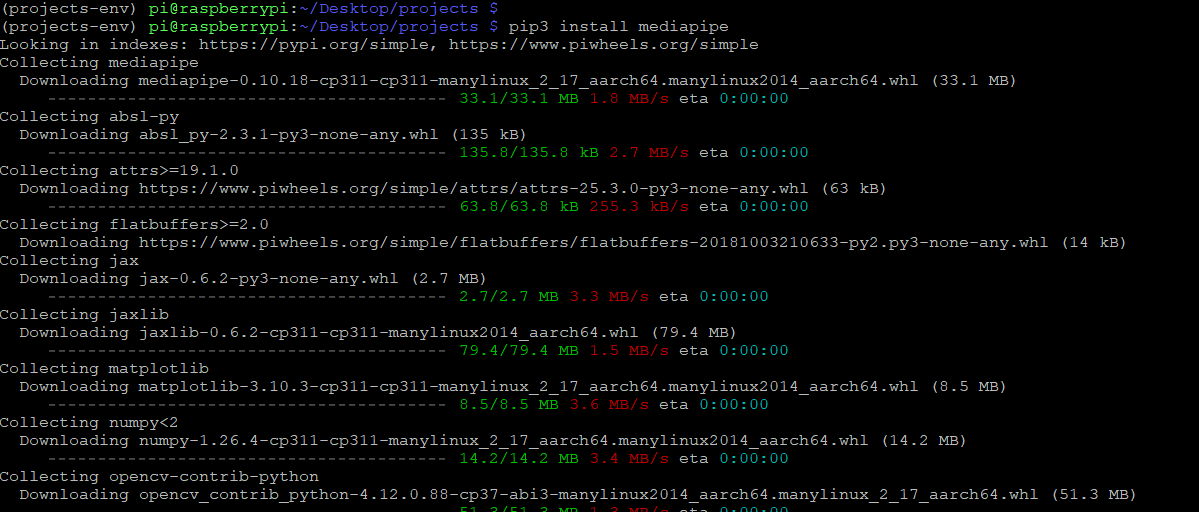
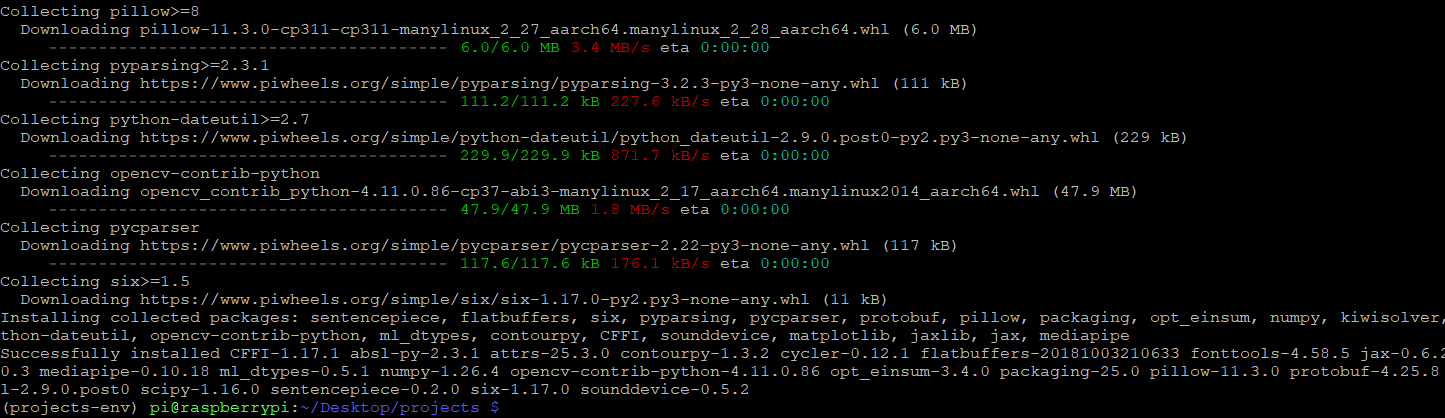
images

Changed region(s): [[0.0, 0.0, 1.0, 1.0]]

diff --git a/README.md b/README.md
@@ -86,6 +86,17 @@ Now that we are in our virtual environment, we can install the MediaPipe library
 
 It will take time. so have a patience and wait for the command to complete.  
   
+MediaPipe intallation will install all necessary dependencies  
+<p align="center">
+<img src="/Images/m2e-mediapipe-1.png" width="450" height="350">  
+</p>
+  
+And Finally you will get message of Successful installation
+
+<p align="center">
+<img src="/Images/m2e-mediapipe-2.png" width="450" height="350">
+</p>
+  
 ### Step 5: Testing Mediapipe installation  
 Now to ensure that MediaPipe has been installed successfully. In your terminal window, open Python prompt:  
    ```
